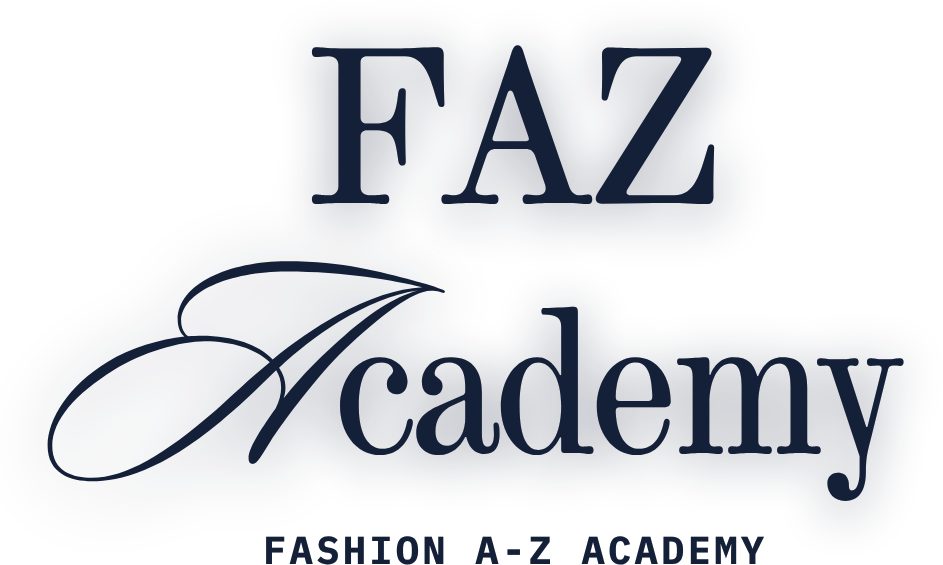
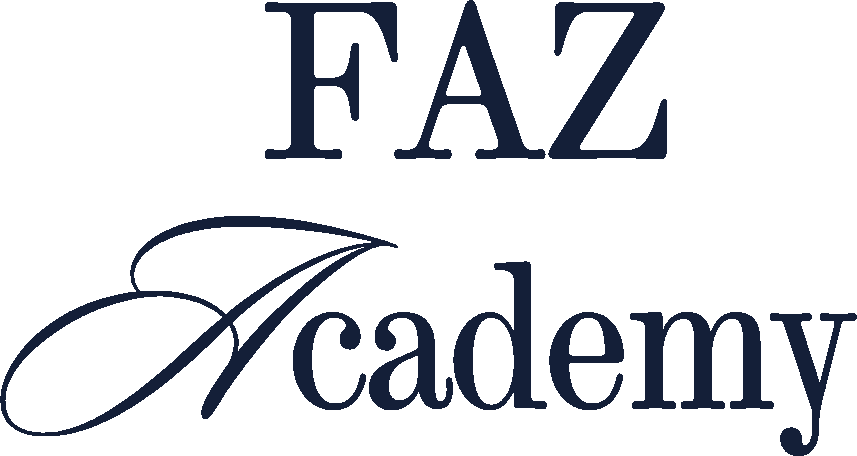
Fix hero wordmark crowding the tagline row
Crop the baked-in "FASHION A-Z ACADEMY" caption (it duplicated the
tagline pills right below) and the soft glow halo out of the wordmark,
fix the img intrinsic-ratio hints, and replace the negative margin on
the tagline row with real spacing.

diff --git a/src/components/landing/HeroSection.tsx b/src/components/landing/HeroSection.tsx
@@ -41,13 +41,13 @@ const HeroSection = () => {
             src={fazWordmark}
             alt="FAZ Academy"
             className="h-24 md:h-32 lg:h-40 w-auto"
-            width={600}
-            height={200}
+            width={857}
+            height={456}
           />
 
 
           {/* Tagline pills */}
-          <div className="-mt-1 flex items-center gap-2 flex-wrap text-[10px] md:text-xs tracking-[0.3em] uppercase text-foreground/70">
+          <div className="mt-5 flex items-center gap-2 flex-wrap text-[10px] md:text-xs tracking-[0.3em] uppercase text-foreground/70">
             <span className="h-px w-6 bg-blue-500" />
             <span>Fashion</span>
             <Sparkles className="w-3 h-3" style={{ color: pink }} />